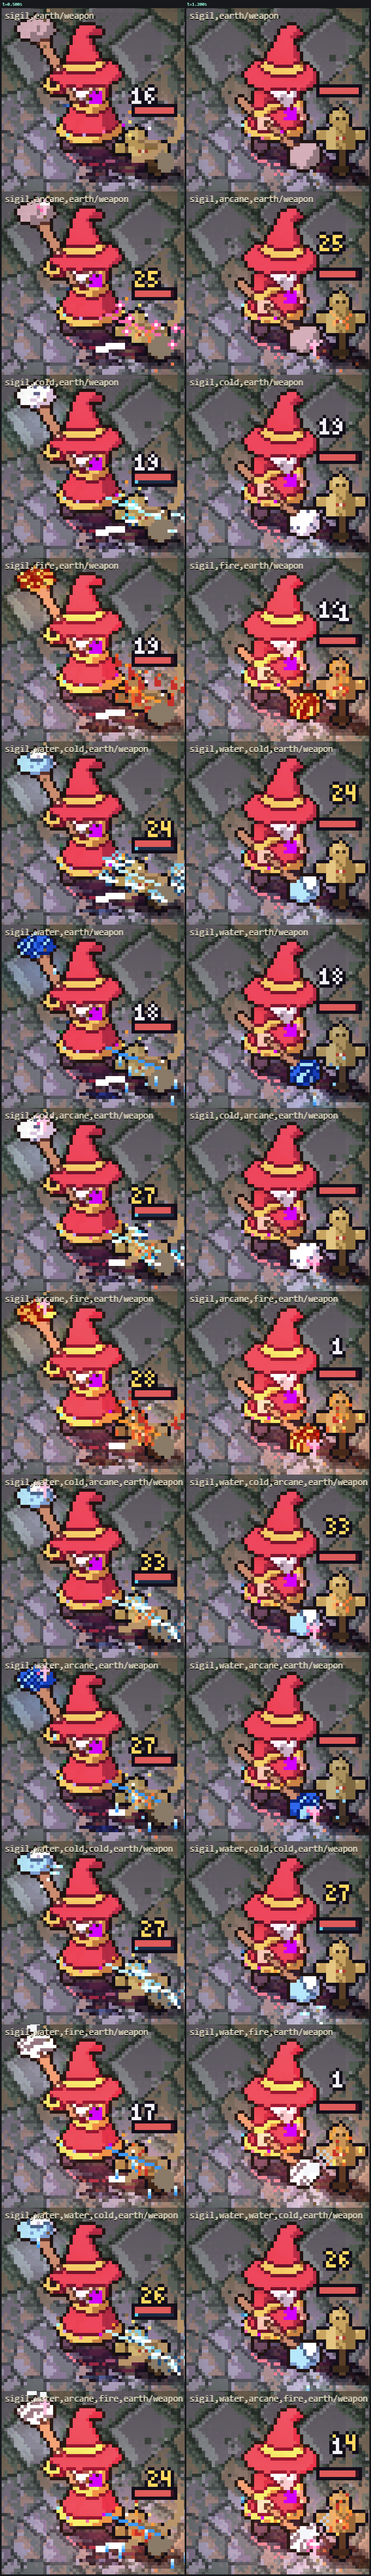
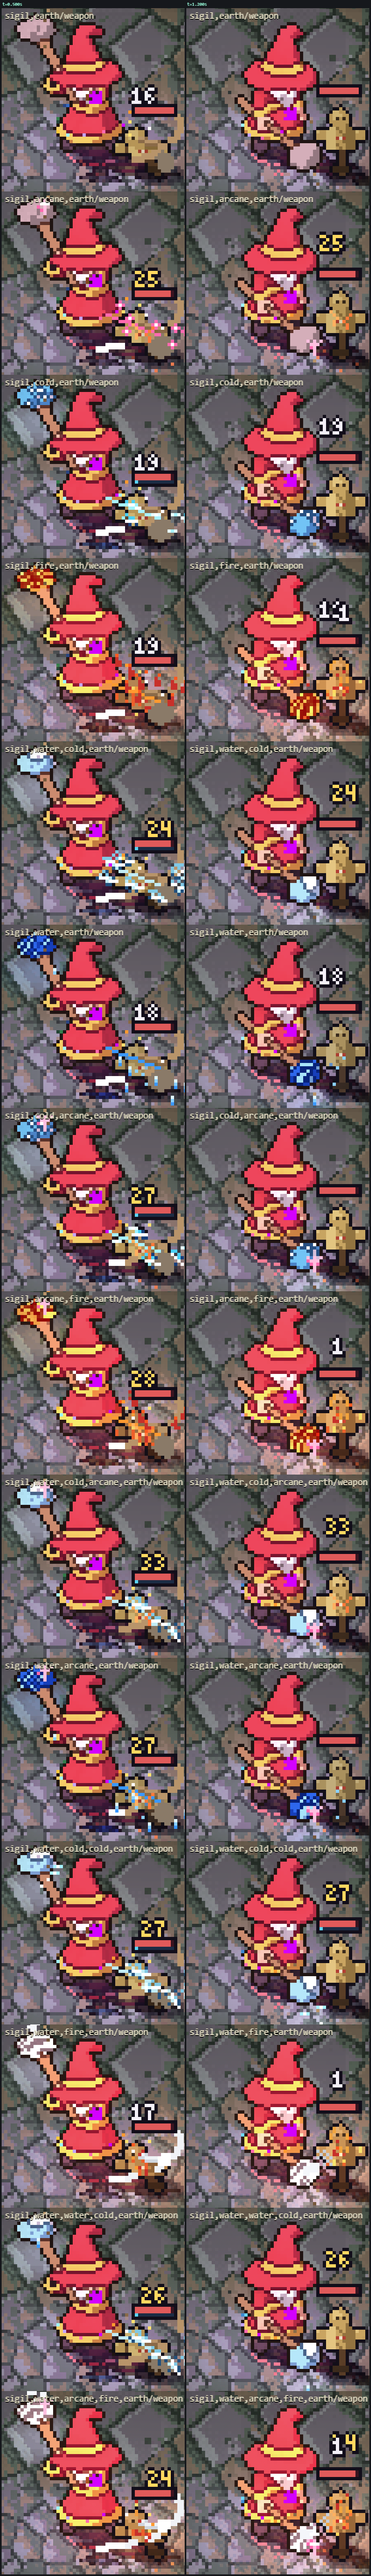
Elemental weapons round 3, from the round-2 marks (refs #4)
- Wand: no 2D glow over an infused 3D orb (its dither read as "a ring with a plus"); the orb shows only its element.
- Trident with Fire: its hits throw steam (blowSpray 'steam'; a weapon blow's fx carries its infusion `mat`).
- Ice bow: firing kicks a recoil back opposite the shot in the infusion's element (mv-arrow / mv-volley; replaces the
  spark on the player); Lightning arrows are little zigzag bolts, Cold arrows leave a frost trail, Water arrows drops
  (art/vfx.ts missiles); the Cold bow sifts snow off its limbs.
- Cold's material (live3d) is blue frost, not white snow, so the Cold bow differs from plain Ice (also bluer on the
  maul and wand; flagged for the user).
- Elemental Arms: round-3 notes per weapon, fresh sheets for the bow, wand, trident and maul. #19 filed.

Claude-Session: https://claude.ai/code/session_01JAzvjinkmFRw8FUJPZDJiH

diff --git a/game/packages/client/src/view-structures.ts b/game/packages/client/src/view-structures.ts
@@ -299,7 +299,7 @@ function guardShape(c: Ctx, id: string, x: number, y: number, sz: number, t: num
 }
 
 // =====================================================================================================
-interface SFx { kind: string; t0: number; life: number; seed: number; x: number; y: number; x2: number; y2: number; who: number; look: number; n: number; els?: Uint8Array; xs?: number[]; half?: number }
+interface SFx { kind: string; t0: number; life: number; seed: number; x: number; y: number; x2: number; y2: number; who: number; look: number; n: number; els?: Uint8Array; xs?: number[]; half?: number; /** A weapon blow's infusion material (infuse.ts MAT), 0 none. */ mat?: number }
 /** Moves made with a guard (guards.ts): their extras are the guard's; every other move's are the weapon's. */
 const GUARD_MOVES = new Set(['parry', 'block', 'glance', 'chill', 'coat', 'guardbreak', 'flameburst', 'lance', 'backstep', 'phase', 'seedstep', 'shovestep', 'surge', 'tidewave', 'flamestep', 'iceslide', 'spikeburst', 'spikestep']);
 
@@ -381,7 +381,8 @@ export class StructureView {
       // what the weapon or guard carries besides its lead, at the moment of the move (the last use takes the weapon)
       const seat = e.who >= 0 && e.who < MAX_SEATS, gm = GUARD_MOVES.has(e.text);
       const xs = !seat || e.text === 'imbue' ? [] : gm ? A.extrasOf(s.guardEls, e.who, ELID.shield, GUARD_EL[s.guard[e.who]] ?? 0) : e.look ? blowEls(e.look, A.extrasOf(s.weaponEls, e.who, e.look)) : [];   // a weapon's: its infusion's one colour (infuse.ts)
-      this.add('mv-' + e.text, t, life, { who: e.who, x: e.x, y: e.y, x2: e.x2 ?? e.x, y2: e.y2 ?? e.y, look: e.look ?? 0, seed: tick * 7 + e.who, n: e.text === 'imbue' ? e.els ?? 0 : seat ? s.guard[e.who] : 0, xs, half: e.half });
+      const mat = seat && !gm && e.look && e.text !== 'imbue' ? infusion(e.look, A.extrasOf(s.weaponEls, e.who, e.look)).mat : 0;
+      this.add('mv-' + e.text, t, life, { who: e.who, x: e.x, y: e.y, x2: e.x2 ?? e.x, y2: e.y2 ?? e.y, look: e.look ?? 0, seed: tick * 7 + e.who, n: e.text === 'imbue' ? e.els ?? 0 : seat ? s.guard[e.who] : 0, xs: mat === MAT.steam ? [] : xs, half: e.half, mat });
     }
     // walls: hits and breaks
     for (let k = 0; k < MAX_WALLS; k++) {
@@ -1401,6 +1402,10 @@ export class StructureView {
     if (e < 0 || e > 0.4) return;
     const q = e / 0.4, ux = Math.cos(a), uy = Math.sin(a) * FY;
     if (el === 'earth') { K.dust(o, p[0], p[1] + 6, e, sd, n, 14, '#8a7a68', 0.4); return; }
+    if (el === 'steam') {   // a puff of steam bursting off the hit and rising (an infused blow: infuse.ts MAT.steam)
+      for (let j = 0; j < n; j++) { const sp = (rand(j, 1, sd) - 0.5) * 2.2, d = e * (20 + rand(j, 2, sd) * 22); K.puff(o, p[0] + Math.cos(a + sp) * d, p[1] + Math.sin(a + sp) * d * FY - e * 26, 1.2 + q * 3, q < 0.5 ? '#ffffff' : '#d0d6de', 0.8 * (1 - q)); }
+      return;
+    }
     if (el === 'lightning' && q < 0.5) {
       const r = 2 + q * 10;
       X.line(o, p[0] - r, p[1], p[0] + r, p[1], '#ffffff'); X.line(o, p[0], p[1] - r, p[0], p[1] + r, '#ffffff');
@@ -1610,7 +1615,9 @@ export class StructureView {
       const tp = dir(10 * k, 0.55), sip = w.seats.specT[i] > 0, r = (sip ? 2.8 + Math.sin(t * 12) * 0.5 : 2.2) * k + 0.5;
       if (body) { X.line(c, h[0], h[1] + 2, tp[0], tp[1], '#120e1a', 3); X.line(c, h[0], h[1] + 2, tp[0], tp[1], '#5a3a6a', 1); }
       const orb = matR ?? EL.arcane;   // an infused orb is the element (a fireball, a snowball...): its glow too
-      X.glow(o, tp[0], tp[1], sip ? 10 : 6, orb[2], 0.6);
+      // the glow over the orb: only on the plain one or without 3D. Over an infused 3D orb its dither read as "a ring with
+      // a plus inside" on top of the element (the user, round 2), so there the orb's material shows alone
+      if (!live || !inf.mat || sip) X.glow(o, tp[0], tp[1], sip ? 10 : 6, orb[2], 0.6);
       if (body) {
         X.ellipse(c, tp[0], tp[1], r + 1, r + 1, '#120e1a');
         X.ellipse(c, tp[0], tp[1], r, r, orb[3] ?? orb[2]); X.ellipse(c, tp[0] - 0.4, tp[1] - 0.4, r * 0.66, r * 0.66, orb[2]);
@@ -1650,7 +1657,14 @@ export class StructureView {
         if (draw >= ARMS.fanPierceAt) X.glow(o, tip[0], tip[1], 5, I[2], 0.6); // full draw: it will pierce
       }
       blade = live ? [h, dir(0)] : limbs;
-      light(h[0], v.y, 24, I[3], 0.35 + 0.3 * draw);
+      // Cold on the bow: frosted blue limbs (live3d's Cold material; white snow read as the plain bow's pale ice, the user,
+      // 2026-11-22: "I can't see any difference"), snow sifting off them and rime glinting. No 2D haze over the 3D prop
+      if (inf.mat === MAT.cold) {
+        const bl = blade, on = (f: number): Pt => { const s = f * (bl.length - 1), k2 = Math.min(bl.length - 2, Math.floor(s)), u = s - k2; return [lerp(bl[k2][0], bl[k2 + 1][0], u), lerp(bl[k2][1], bl[k2 + 1][1], u)]; };
+        for (const p of emit(t, 6, 1.1, (q, age) => { const b0 = on(0.15 + 0.8 * rand(q, 7, i)); return { x: b0[0] + Math.sin(q * 2 + age * 5) * 1.5, y: b0[1] + age * 12, age }; })) { X.px(o, p.x, p.y, '#ffffff'); if (p.age < 0.5) { X.px(o, p.x - 1, p.y, X.FROST[2]); X.px(o, p.x + 1, p.y, X.FROST[2]); } }
+        if (Math.floor(t * 5 + i) % 4 === 0) { const r = on(rand(Math.floor(t * 5), 8, i)); X.px(o, r[0] + 1, r[1], '#ffffff'); }
+      }
+      light(h[0], v.y, 24, inf.mat === MAT.cold ? X.FROST[3] : I[3], 0.35 + 0.3 * draw);
     } else if (frosty(el)) {
       const tp = dir(15 * k, 0.25);
       blade = [[h[0], h[1] + 4], tp];
@@ -1932,7 +1946,7 @@ export class StructureView {
     // Every weapon and guard move shows the extras it carries (art/accent.ts), beside its own effect:
     // along its path (a dash, lash, wave, Retreat) or thrown off where it happens (a parry, a charged bolt).
     // The Strike and the Sweep lay theirs along their own shapes, below.
-    if (f.xs?.length && f.kind !== 'mv-strike' && f.kind !== 'mv-sweep') {
+    if (f.xs?.length && f.kind !== 'mv-strike' && f.kind !== 'mv-sweep' && f.kind !== 'mv-arrow' && f.kind !== 'mv-volley') {
       const q = e / f.life, x2 = gx(f.x2), y2 = gy(f.y2), far = Math.hypot(x2 - x, y2 - y) > 6;
       if (far) { A.trail(o, [x, y - 8], [x2, y2 - 8], f.xs, q, sd, 10); A.burst(o, [x2, y2 - 8], f.xs, q, sd + 1, 6, 16); }
       else A.burst(o, [x, y - 10], f.xs, q, sd, 7, 18);
@@ -2194,6 +2208,20 @@ export class StructureView {
         for (let j = 0; j < 10; j++) { const kq = rand(j, 1, sd); X.px(o, lerp(x, x2, kq), lerp(y, y2, kq) - 10 + q * q * 20, j % 2 ? LIFE[1] : LIFE[3]); }
         return;
       }
+      case 'mv-arrow': case 'mv-volley': {
+        // The bow's recoil (the user, 2026-11-22: "more like a sort of recoil from the bow firing - only shooting back in
+        // the opposite direction"): a few bits of what the bow carries thrown back off it, away from the shot, in ~0.2 s
+        if (!bodies[f.who]?.on || e > 0.22) return;
+        const q = e / 0.22, a = w.bodies.face[f.who] * TAU, bx = -Math.cos(a), by = -Math.sin(a) * FY, bl = Math.hypot(bx, by) || 1;
+        const ux = bx / bl, uy = by / bl, x0 = x - ux * 7, y0 = y - 16 - uy * 7;   // from the bow, in front of the body
+        const xs = A.extrasOf(w.seats.weaponEls, f.who, ELID.ice), has = (id: number) => xs.includes(id);
+        const out = (j: number, k: number): Pt => { const sp = (rand(j, 1, sd) - 0.5) * 1.0, d = q * (12 + rand(j, 2, sd) * 10) * k; return [x0 + (ux * Math.cos(sp) - uy * Math.sin(sp)) * d, y0 + (uy * Math.cos(sp) + ux * Math.sin(sp)) * d]; };
+        if (has(ELID.lightning) && q < 0.7 && Math.floor(e * 40) % 3 !== 2) for (let j = 0; j < 3; j++) { const p0 = out(j, 0.3), p1 = out(j, 1.1); K.zap(o, p0, p1, sd + j * 7 + Math.floor(e * 40), EL.lightning, 1, 0); X.px(o, p1[0], p1[1], '#ffffff'); }
+        if (has(ELID.cold)) for (let j = 0; j < 3; j++) { const p = out(j + 3, 0.8); K.puff(o, p[0], p[1] + q * 3, 0.8 + q * 1.2, q < 0.4 ? '#ffffff' : X.FROST[2], 0.8 * (1 - q)); }
+        if (has(ELID.water)) for (let j = 0; j < 4; j++) { const p = out(j + 6, 0.8); X.px(o, p[0], p[1] + e * e * 120, j % 2 ? '#ffffff' : '#8ad0ff'); }
+        if (!xs.length) for (let j = 0; j < 3; j++) { const p = out(j + 9, 0.7); if (rand(j, 3, sd) > q) X.px(o, p[0], p[1], j % 2 ? '#ffffff' : EL.ice[1]); }
+        return;
+      }
       case 'mv-strike': case 'mv-sweep': case 'mv-imbue': {
         // weapon blows (hands.ts) and the imbued burst: drawn from where the wizard stood, toward (x2, y2)
         // the jabbing weapons (staff, spear, trident) thrust at hand height, 16 px up (measured off the live 3D body; the
@@ -2202,7 +2230,7 @@ export class StructureView {
         const aw = Math.atan2(f.y2 - f.y, f.x2 - f.x), reach = Math.hypot(f.x2 - f.x, f.y2 - f.y) * PPU, q = e / f.life, cy0 = y - (jabs && f.kind !== 'mv-imbue' ? 16 : 8);
         const at = (a: number, r: number): Pt => [x + Math.cos(a) * r, cy0 + Math.sin(a) * r * FY];
         if (f.kind === 'mv-imbue') { this.imbueFx(f, e, q, aw, reach, at, o, g, light); return; }
-        const Rb = blowRamp(f.look), key = f.look ? elName(f.look) : 'staff', el = f.look ? key : '';
+        const steamy = f.mat === MAT.steam, Rb = steamy ? (A.MAT_COL[MAT.steam] as Ramp) : blowRamp(f.look), key = f.look ? elName(f.look) : 'staff', el = steamy ? 'steam' : f.look ? key : '';
         if (f.kind === 'mv-strike') {
           // the thrust: streaks shooting out along the aim (three prongs for the trident), then a smear across the cone at the reach
           const half = ((ARMS.blowHalf as Record<string, number>)[key] ?? 0.15) * TAU, k = easeOut(clamp(q / 0.35, 0, 1));

diff --git a/tools/weapon-variants/index.html b/tools/weapon-variants/index.html
@@ -103,7 +103,7 @@ textarea { width: 100%; box-sizing: border-box; min-height: 52px; resize: vertic
   </div>
 
   <section class="round2" id="round2" style="display:grid;gap:18px">
-    <h2>Round 2: in the game</h2>
+    <h2>In the game (rounds 2 and 3)</h2>
     <p>Built from your marks and your general note, <b>the lead sets the shape and the extras set the element</b>. The first extra, in the order Ice, then Steam (Fire with Water), then Fire, Water, Cold and Lightning, turns the part that carries the element into that material: the maul's head, the wand's orb, the bow's limbs, the trident's prongs, the whip's lash. Each other extra adds one small effect: Lightning a crackle, Water a drip, Cold snow puffs, Fire embers, Ice a glint. Arcane is a glowing rune. The bands of particles along the blade are gone.</p>
     <p class="muted">Each sheet is the game's own drawing (the VFX Lab, live 3D): a row per version, mid-Strike on the left and held on the right. To see one moving, run the game's dev server and open <code>vfx-lab.html?spells=sigil,earth,fire/weapon&amp;scene=weapon&amp;focus=1&amp;then=strike</code>.</p>
     <div class="r2grid" id="r2"></div>
@@ -156,12 +156,12 @@ const MOTIF = {
 };
 /** Round 2: what changed per weapon (docs/threads/elemental-weapons.md). Marked as v-r2-<weapon>. */
 const R2 = {
-  'Stone maul': 'No crystals. The head becomes the material: molten, flowing water, packed snow, ice crystal, or swirling steam (Fire + Water). Arcane adds a glowing rune; a second extra adds its effect (Ice + Cold: snow puffs falling; Ice + Water: drips).',
-  'Arcane wand': 'The orb becomes the element: a fireball, a ball of water, a snowball (Cold, and Cold + Ice), an icy orb, a ball of lightning, a ball of steam. A second extra adds its effect: crackle, or drips. The ring of colours round the orb is gone.',
+  'Stone maul': 'Round 3: Cold is now frosty blue on every weapon (it had to differ from Ice on the bow), so this snowy head turned blue too; say if the maul should stay white. Round 2: no crystals. The head becomes the material: molten, flowing water, packed snow, ice crystal, or swirling steam (Fire + Water). Arcane adds a glowing rune; a second extra adds its effect (Ice + Cold: snow puffs falling; Ice + Water: drips).',
+  'Arcane wand': 'Round 3: the glow drawn over the orb is gone (it was the ring with a plus), so the orb shows only its element; Cold is a blue frost orb now. Round 2: the orb becomes the element: a fireball, a ball of water, a snowball (Cold, and Cold + Ice), an icy orb, a ball of lightning, a ball of steam. A second extra adds its effect: crackle, or drips. The ring of colours round the orb is gone.',
   'Lightning whip': 'The lash takes the element: flame-coloured with a few embers for Fire, icy with snow puffs for Cold.',
   'Flame sword': 'With Water, only the hilt stays solid and the blade is a jet of steam escaping from it. (Pressed as Fire, Fire, Water: with one of each, Water leads and you get the trident.)',
-  'Ice bow': 'Lightning turns the limbs violet (lightning dominant). Cold frosts them white. Water only drips.',
-  'Tide trident': 'With Fire, the prongs are steam. It stays, next to the steam sword (your call, 2026-11-22).',
+  'Ice bow': 'Round 3: a recoil kicks back opposite the shot (ice glints, frost puffs, water drops or lightning sparks), Lightning arrows are little zigzag bolts, Cold arrows leave a frost trail and Water arrows a few drops, and Cold frosts the limbs blue so it differs from the plain bow. Round 2: Lightning turns the limbs violet; Water only drips.',
+  'Tide trident': 'Round 3: with Fire its hits throw steam, not water. Round 2: with Fire the prongs are steam; it stays, next to the steam sword.',
   'Healing hands': 'No model: each hand is a green core with a shell for each extra, the first innermost. Clear with one or two extras; with three the shells start to blur.',
   'Frost spear': 'Nothing can join it, so it is unchanged.',
 };
@@ -221,7 +221,7 @@ function card(w, v) {
   const adds = v.extras.map((e) => { const a = v.adds[e]; return a ? `<div>${dot(e)} <b>${esc(a.trait)}</b>: ${esc(a.text)}</div>` : ''; }).join('');
   return `<article class="card" data-card="${id}">
     <div class="plate"><img src="img/${id}.jpg" alt="Concept art: ${name}" loading="lazy" onerror="this.replaceWith(Object.assign(document.createElement('div'),{className:'wait',textContent:'Picture not ready yet'}))"><span class="src">Concept</span></div>
-    <figure class="game"><img src="img/game-${id}.png" alt="${name} in the game: mid-Strike, then held" loading="lazy" onerror="this.closest('figure').hidden=true"><figcaption>In the game: mid-Strike, then held</figcaption></figure>
+    <figure class="game"><img src="img/game-${id}.png" alt="${name} in the game: mid-Strike, then held" loading="lazy" onerror="this.closest('figure').hidden=true"><figcaption>In the game (round 2): mid-Strike, then held</figcaption></figure>
     <div class="body">
       <div class="name">${name}</div>
       <div class="keys">${keys(v.pressed)}</div>

diff --git a/game/packages/client/src/art/vfx.ts b/game/packages/client/src/art/vfx.ts
@@ -1059,6 +1059,21 @@ export class Vfx {
           X.px(o, x, y, X.LIFE[3]); X.glow(o, x, y, 4, X.LIFE[2], 0.6);
         } else {
           const SR: Ramp = el === 'cold' || el === 'water' ? EL.cold : el === 'earth' ? X.EARTH : R.length >= 6 ? R : [...R, R[R.length - 1]];
+          // a bow's arrow carries the bow's extras (the user, 2026-11-22): Lightning makes it a little bolt, Cold leaves a
+          // frost trail, Water a trail of drops; sparse, and left in the world where it passed
+          const bx = bowShot ? A.extrasOf(m.els, j, 10) : [], born = this.mT0[j];
+          if (bx.includes(4)) for (const p of emit(t, 22, 0.4, (i, age, ts) => { const back = (t - ts) * L * 16 + 4; return { x: x - ux * back + (rand(i, 2, sd) - 0.5) * 2, y: y - uy * back + age * 3, age }; }, born, t)) X.px(o, p.x, p.y, p.age < 0.4 ? '#ffffff' : X.FROST[2]);
+          if (bx.includes(1)) for (const p of emit(t, 16, 0.4, (i, age, ts) => { const back = (t - ts) * L * 16 + 4; return { x: x - ux * back + (rand(i, 3, sd) - 0.5) * 2, y: y - uy * back + age * age * 14, age, i }; }, born, t)) X.px(o, p.x, p.y, p.i % 3 ? '#8ad0ff' : '#ffffff');
+          if (bx.includes(5)) {
+            // the bolt: a short jagged zigzag from tail to head, redrawn every few frames, dimmer one frame in three
+            const fr = Math.floor(t * 20), zz: Pt[] = [];
+            for (let q = 0; q <= 4; q++) { const b = 12 - q * 3.5, off = q === 0 || q === 4 ? 0 : (q % 2 ? 1 : -1) * (1.2 + rand(fr, q, sd) * 1.8); zz.push([x - ux * b - uy * off, y - uy * b + ux * off]); }
+            if (fr % 3 !== 2) X.lines(o, zz, EL.lightning[3], 2);
+            X.lines(o, zz, fr % 3 === 2 ? EL.lightning[2] : '#ffffff', 1);
+            X.px(o, x + ux * 2, y + uy * 2, '#ffffff');
+            light(x, yg, 22, '#b08aff', 0.4);
+            continue;
+          }
           for (let k2 = 1; k2 <= 4; k2++) X.px(o, x - ux * k2 * 4, y - uy * k2 * 4, k2 === 1 ? SR[1] : k2 < 3 ? SR[2] : SR[4]);
           K.shard(o, x, y, Math.atan2(uy, ux), 6.5, sd, 1, SR);
         }

diff --git a/game/packages/client/src/art/live3d.ts b/game/packages/client/src/art/live3d.ts
@@ -338,8 +338,8 @@ const FX_FRAG = `
       albedo = mix(vec3(0.85, 0.18, 0.04), vec3(1.0, 0.84, 0.3), n1); ratio = max(ratio, 0.85) * (0.95 + 0.25 * n1);
     } else if (infMode == 2) {   // water: deep blue with light bands flowing through it
       albedo = mix(vec3(0.1, 0.36, 0.92), vec3(0.5, 0.84, 1.0), smoothstep(0.55, 0.95, flow)); ratio *= 0.9 + 0.25 * flow;
-    } else if (infMode == 3) {   // cold: packed snow, white with blue in the shade
-      albedo = mix(vec3(0.72, 0.84, 0.97), vec3(0.97, 0.99, 1.0), step(0.32, bayer4(vFx.xy * 60.0 + vFx.z * 40.0)));
+    } else if (infMode == 3) {   // cold: frost, a clear cold blue speckled with white rime (white snow read as plain ice)
+      albedo = mix(vec3(0.32, 0.72, 0.95), vec3(0.95, 0.99, 1.0), step(0.62, bayer4(vFx.xy * 60.0 + vFx.z * 40.0)));
     } else if (infMode == 4) {   // ice: clear pale crystal, its facets catching the light
       vec3 nv = normalize(vNormal);
       albedo = mix(vec3(0.55, 0.85, 1.0), vec3(0.93, 0.99, 1.0), smoothstep(0.55, 0.9, nv.y * 0.6 + nv.x * 0.5 + 0.3)); ratio = max(ratio, 0.8);

diff --git a/docs/threads/elemental-weapons.md b/docs/threads/elemental-weapons.md
@@ -45,7 +45,9 @@ The user's marks, turned into one list. "Material" is the element-bearing part's
 
 ## Next
 
-- [ ] The user marks round 2 on Elemental Arms (one mark per weapon, all its versions in one sheet).
+- [ ] The user looks at round 3 (the wand, the bow, the trident's hits, Cold as blue frost) on Elemental Arms. Round 2 marks: keep for the maul, sword, spear, whip, hands and trident; maybe for the wand and bow.
+- [ ] Whether the maul's Cold head stays blue frost or goes back to white snow (Cold became blue everywhere so the bow could differ from Ice).
+- [ ] The steam sword: the user, "a bit weird, but I have trouble imagining how this could look not weird". Kept; revisit if an idea comes.
 - [ ] Effects that fall or rise (drips, snow, embers) move with the weapon over their short life. Pin them to the world where they spawned if it shows in play.
 - [ ] Knobs for the infusion looks (the shader modes' colours, effect rates), per the VFX workflow, once the user's notes say which ones need tuning.
 - [ ] Remove the 2D fallback weapons ([#18](https://github.com/magnevan/wizard-sim/issues/18)); the user doesn't want the old drawing kept as bloat.
@@ -64,4 +66,5 @@ Settled 2026-11-22: the trident with Fire stays, next to the steam sword. The ha
 
 - 2026-11-21 The 57 variants and Codex concepts, the Elemental Arms page
 - 2026-11-22 The user's marks read into the fix list and the spec above
+- 2026-11-22 Round 3, from the round-2 marks: no 2D glow over an infused 3D orb (it read as "a ring with a plus"); the trident with Fire hits with steam (`blowSpray` 'steam', the blow's `mat`); the bow's recoil kicks back opposite the shot in the infusion's element (`mv-arrow`/`mv-volley`), Lightning arrows are zigzag bolts, Cold and Water arrows leave trails (`art/vfx.ts` missiles); Cold's material is blue frost so the Cold bow differs from plain Ice. #19 filed (the Cold wand flashes its caster white).
 - 2026-11-22 Round 2 in the game: `art/infuse.ts`, the infusion shaders in `art/live3d.ts`, `A.infused` and `A.shells` in `art/accent.ts` (`A.along` removed), the steam blade, the recoloured lash, blows in one colour, no maul crystals. In the lab: `then=`, `focus=`, `scene=weapon`, sheets that keep every row, and `vfx-sheet --gl gpu` (the sheets had been showing the 2D fallback). `tools/weapon-variants/ingame.mjs` renders the page's sheets.
